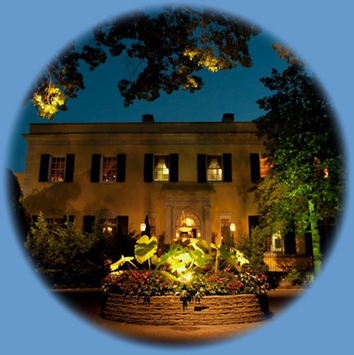
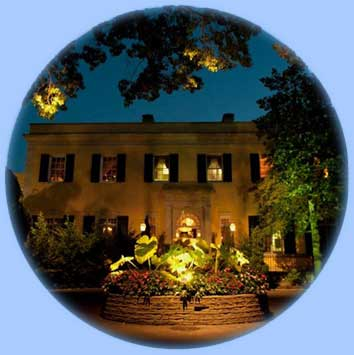
lighter blue

diff --git a/stylesheets/foundation.css b/stylesheets/foundation.css
@@ -4,7 +4,7 @@
 
 html { font-size: 62.5%; height: 100%;}
 
-body { background: #6699cc; font-family: "Helvetica", Helvetica, Arial, sans-serif; font-size: 22px; line-height: 1; color: #000066; position: relative; -webkit-font-smoothing: antialiased; height: 100%;}
+body { background: #aaccff; font-family: "Helvetica", Helvetica, Arial, sans-serif; font-size: 22px; line-height: 1; color: #000066; position: relative; -webkit-font-smoothing: antialiased; height: 100%;}
 
 /* Links ---------------------- */
 a { color: #960; text-decoration: none; line-height: inherit; }
@@ -419,9 +419,9 @@ that IE7/8 do not support :nth-child.
 .button.alert { background-color: #c60f13; border: 1px solid #7f0a0c; }
 .button.alert:hover { background-color: #970b0e; }
 .button.alert:focus { -webkit-box-shadow: 0 0 4px #c60f13, 0 1px 0 rgba(255, 255, 255, 0.5) inset; -moz-box-shadow: 0 0 4px #c60f13, 0 1px 0 rgba(255, 255, 255, 0.5) inset; box-shadow: 0 0 4px #c60f13, 0 1px 0 rgba(255, 255, 255, 0.5) inset; }
-.button.secondary { background-color: #6699cc; color: black; border: 1px solid #3973ac; }
+.button.secondary { background-color: #aaccff; color: black; border: 1px solid #3973ac; }
 .button.secondary:hover { background-color: #407fbf; }
-.button.secondary:focus { -webkit-box-shadow: 0 0 5px #6699cc, 0 1px 0 rgba(255, 255, 255, 0.5) inset; -moz-box-shadow: 0 0 5px #6699cc, 0 1px 0 rgba(255, 255, 255, 0.5) inset; box-shadow: 0 0 5px #6699cc, 0 1px 0 rgba(255, 255, 255, 0.5) inset; }
+.button.secondary:focus { -webkit-box-shadow: 0 0 5px #aaccff, 0 1px 0 rgba(255, 255, 255, 0.5) inset; -moz-box-shadow: 0 0 5px #aaccff, 0 1px 0 rgba(255, 255, 255, 0.5) inset; box-shadow: 0 0 5px #aaccff, 0 1px 0 rgba(255, 255, 255, 0.5) inset; }
 .button.radius { -webkit-border-radius: 3px; -moz-border-radius: 3px; -ms-border-radius: 3px; -o-border-radius: 3px; border-radius: 3px; }
 .button.round { -webkit-border-radius: 1000px; -moz-border-radius: 1000px; -ms-border-radius: 1000px; -o-border-radius: 1000px; border-radius: 1000px; }
 .button.full-width { width: 100%; text-align: center; padding-left: 0px !important; padding-right: 0px !important; }
@@ -432,8 +432,8 @@ that IE7/8 do not support :nth-child.
 .button.disabled.success:hover, .button[disabled].success:hover { background-color: #cc0066; }
 .button.disabled.alert, .button[disabled].alert { background-color: #c60f13; }
 .button.disabled.alert:hover, .button[disabled].alert:hover { background-color: #c60f13; }
-.button.disabled.secondary, .button[disabled].secondary { background-color: #6699cc; }
-.button.disabled.secondary:hover, .button[disabled].secondary:hover { background-color: #6699cc; }
+.button.disabled.secondary, .button[disabled].secondary { background-color: #aaccff; }
+.button.disabled.secondary:hover, .button[disabled].secondary:hover { background-color: #aaccff; }
 
 /* Don't use native buttons on iOS */
 input[type=submit].button, button.button { -webkit-appearance: none; }
@@ -469,7 +469,7 @@ input[type=submit].button, button.button { -webkit-appearance: none; }
 .button.dropdown.split:hover { background-color: #3333cc; }
 .button.dropdown.split.alert:hover { background-color: #c60f13; }
 .button.dropdown.split.success:hover { background-color: #cc0066; }
-.button.dropdown.split.secondary:hover { background-color: #6699cc; }
+.button.dropdown.split.secondary:hover { background-color: #aaccff; }
 .button.dropdown.split > a { color: white; display: block; padding: 10px 50px 11px 20px; padding-left: 20px; padding-right: 50px; -webkit-transition: background-color 0.15s ease-in-out; -moz-transition: background-color 0.15s ease-in-out; -o-transition: background-color 0.15s ease-in-out; transition: background-color 0.15s ease-in-out; }
 .button.dropdown.split > a:hover { background-color: #2929a3; }
 .button.dropdown.split.large > a { padding: 15px 75px 16px 30px; padding-left: 30px; padding-right: 75px; }
@@ -487,7 +487,7 @@ input[type=submit].button, button.button { -webkit-appearance: none; }
 .button.dropdown.split.tiny span:after { content: ""; display: block; width: 0; height: 0; border: solid 3px; border-color: white transparent transparent transparent; margin-top: -1px; margin-left: -3px; }
 .button.dropdown.split.alert > span { background-color: #c60f13; border-left-color: #7f0a0c; }
 .button.dropdown.split.success > span { background-color: #cc0066; border-left-color: #800040; }
-.button.dropdown.split.secondary > span { background-color: #6699cc; border-left-color: #3973ac; }
+.button.dropdown.split.secondary > span { background-color: #aaccff; border-left-color: #3973ac; }
 .button.dropdown.split.secondary > a { color: black; }
 .button.dropdown.split.alert > a:hover, .button.dropdown.split.alert > span:hover { background-color: #970b0e; }
 .button.dropdown.split.success > a:hover, .button.dropdown.split.success > span:hover { background-color: #99004d; }
@@ -801,7 +801,7 @@ table.show-for-xlarge, table.show-for-large, table.hide-for-small, table.hide-fo
 div.alert-box { display: block; padding: 6px 7px 7px; font-weight: bold; font-size: 14px; color: white; background-color: #3333cc; border: 1px solid rgba(0, 0, 0, 0.1); margin-bottom: 12px; -webkit-border-radius: 3px; -moz-border-radius: 3px; -ms-border-radius: 3px; -o-border-radius: 3px; border-radius: 3px; text-shadow: 0 -1px rgba(0, 0, 0, 0.3); position: relative; }
 div.alert-box.success { background-color: #cc0066; color: #fff; text-shadow: 0 -1px rgba(0, 0, 0, 0.3); }
 div.alert-box.alert { background-color: #c60f13; color: #fff; text-shadow: 0 -1px rgba(0, 0, 0, 0.3); }
-div.alert-box.secondary { background-color: #6699cc; color: black; text-shadow: 0 1px rgba(255, 255, 255, 0.3); }
+div.alert-box.secondary { background-color: #aaccff; color: black; text-shadow: 0 1px rgba(255, 255, 255, 0.3); }
 div.alert-box a.close { color: #333; position: absolute; right: 4px; top: -1px; font-size: 17px; opacity: 0.2; padding: 4px; }
 div.alert-box a.close:hover, div.alert-box a.close:focus { opacity: 0.4; }
 
@@ -811,7 +811,7 @@ div.alert-box a.close:hover, div.alert-box a.close:focus { opacity: 0.4; }
 .label.round { padding: 1px 7px 2px; -webkit-border-radius: 1000px; -moz-border-radius: 1000px; -ms-border-radius: 1000px; -o-border-radius: 1000px; border-radius: 1000px; }
 .label.alert { background-color: #c60f13; }
 .label.success { background-color: #cc0066; }
-.label.secondary { background-color: #6699cc; color: black; }
+.label.secondary { background-color: #aaccff; color: black; }
 
 /* Tooltips ---------------------- */
 .has-tip { border-bottom: dotted 1px #cccccc; cursor: help; font-weight: bold; color: #333333; }
@@ -843,16 +843,16 @@ div.alert-box a.close:hover, div.alert-box a.close:focus { opacity: 0.4; }
 .panel.radius { -webkit-border-radius: 3px; -moz-border-radius: 3px; -ms-border-radius: 3px; -o-border-radius: 3px; border-radius: 3px; }
 
 /* Accordion ---------------------- */
-ul.accordion { margin: 0 0 22px 0; border-bottom: 1px solid #6699cc; }
-ul.accordion > li { list-style: none; margin: 0; padding: 0; border-top: 1px solid #6699cc; }
-ul.accordion > li .title { cursor: pointer; background: #79a6d2; padding: 15px; margin: 0; position: relative; border-left: 1px solid #6699cc; border-right: 1px solid #6699cc; -webkit-transition: 0.15s background linear; -moz-transition: 0.15s background linear; -o-transition: 0.15s background linear; transition: 0.15s background linear; }
+ul.accordion { margin: 0 0 22px 0; border-bottom: 1px solid #aaccff; }
+ul.accordion > li { list-style: none; margin: 0; padding: 0; border-top: 1px solid #aaccff; }
+ul.accordion > li .title { cursor: pointer; background: #79a6d2; padding: 15px; margin: 0; position: relative; border-left: 1px solid #aaccff; border-right: 1px solid #aaccff; -webkit-transition: 0.15s background linear; -moz-transition: 0.15s background linear; -o-transition: 0.15s background linear; transition: 0.15s background linear; }
 ul.accordion > li .title h1, ul.accordion > li .title h2, ul.accordion > li .title h3, ul.accordion > li .title h4, ul.accordion > li .title h5 { margin: 0; }
 ul.accordion > li .title:after { content: ""; display: block; width: 0; height: 0; border: solid 6px; border-color: transparent #264c73 transparent transparent; position: absolute; right: 15px; top: 21px; }
 ul.accordion > li .content { display: none; padding: 15px; }
 ul.accordion > li.active { border-top: 3px solid #3333cc; }
 ul.accordion > li.active .title { background: white; padding-top: 13px; }
 ul.accordion > li.active .title:after { content: ""; display: block; width: 0; height: 0; border: solid 6px; border-color: #264c73 transparent transparent transparent; }
-ul.accordion > li.active .content { background: white; display: block; border-left: 1px solid #6699cc; border-right: 1px solid #6699cc; }
+ul.accordion > li.active .content { background: white; display: block; border-left: 1px solid #aaccff; border-right: 1px solid #aaccff; }
 
 /* Side Nav ---------------------- */
 ul.side-nav { display: block; list-style: none; margin: 0; padding: 17px 0; }
@@ -879,7 +879,7 @@ ul.pagination li.current a { background: #3333cc; color: white; font-weight: bol
 ul.pagination li.current a:hover { background: #3333cc; }
 
 /* Breadcrums ---------------------- */
-ul.breadcrumbs { display: block; background: #79a6d2; padding: 6px 10px 7px; border: 1px solid #6699cc; -webkit-border-radius: 2px; -moz-border-radius: 2px; -ms-border-radius: 2px; -o-border-radius: 2px; border-radius: 2px; overflow: hidden; }
+ul.breadcrumbs { display: block; background: #79a6d2; padding: 6px 10px 7px; border: 1px solid #aaccff; -webkit-border-radius: 2px; -moz-border-radius: 2px; -ms-border-radius: 2px; -o-border-radius: 2px; border-radius: 2px; overflow: hidden; }
 ul.breadcrumbs li { margin: 0; padding: 0 12px 0 0; float: left; list-style: none; }
 ul.breadcrumbs li a, ul.breadcrumbs li span { text-transform: uppercase; font-size: 11px; font-size: 1.1rem; padding-left: 12px; }
 ul.breadcrumbs li:first-child a, ul.breadcrumbs li:first-child span { padding-left: 0; }
@@ -941,7 +941,7 @@ p.vevent abbr { cursor: default; text-decoration: none; font-weight: bold; borde
 /* Progress Bar ---------------------- */
 div.progress { padding: 2px; margin-bottom: 10px; border: 1px solid #cccccc; height: 25px; /* meter */ /* border radii */ }
 div.progress .meter { background: #3333cc; height: 100%; display: block; width: 50%; }
-div.progress.secondary .meter { background: #6699cc; }
+div.progress.secondary .meter { background: #aaccff; }
 div.progress.success .meter { background: #cc0066; }
 div.progress.alert .meter { background: #c60f13; }
 div.progress.radius { -webkit-border-radius: 3px; -moz-border-radius: 3px; -ms-border-radius: 3px; -o-border-radius: 3px; border-radius: 3px; }

diff --git a/_posts/2012-12-21-Our-Story.html b/_posts/2012-12-21-Our-Story.html
@@ -99,8 +99,8 @@ permalink: /Our-Story
 			</div>
 			<div class="six columns">
 				<img src="/images/sun.png" style="margin-top: 15px;margin-left: 60px;" title="The Setting Sun" alt="The Setting Sun"/><br />
-				<img src="/images/sea2.gif" style="margin-top: 30px; margin-left: 45px;" title="The Rolling Sea" alt="The Rolling Sea" /><br />
-				<img src="/images/sea2.gif" style="margin-left: 15px;" title="The Rolling Sea" alt="The Rolling Sea" />
+				<img src="/images/sea.gif" style="margin-top: 30px; margin-left: 45px;" title="The Rolling Sea" alt="The Rolling Sea" /><br />
+				<img src="/images/sea.gif" style="margin-left: 15px;" title="The Rolling Sea" alt="The Rolling Sea" />
 			</div>
 		</div>
 		<div class="row">

diff --git a/stylesheets/app.css b/stylesheets/app.css
@@ -147,7 +147,7 @@ form.custom div.custom.dropdown ul li { padding-top: 5px; padding-bottom: 5px; }
 	font-size: 106px; 
 	width: 465px;
 	font-weight: bold;
-	background: #69C;
+	background: #acf;
 	z-index: 2;
 }
 #our-story-text .ldn {
@@ -156,7 +156,7 @@ form.custom div.custom.dropdown ul li { padding-top: 5px; padding-bottom: 5px; }
 	font-size: 141px;
 	width: 465px;
 	font-weight: bold;
-	background: #69C;
+	background: #acf;
 }
 .ie6 .ny, .ie7 .ny, .ie8 .ny, .ie9 .ny {
 	margin-left: -50px !important;

diff --git a/_includes/header.html b/_includes/header.html
@@ -37,7 +37,7 @@
 				</p>
 			</div>
 			<div class="four columns nav-center text-center">
-				<a href="/" class="home-link"><img src="images/dandc.png" alt="home"/></a>
+				<a href="/" class="home-link"><img src="/images/dandc.png" alt="home"/></a>
 			</div>
 			<div class="four columns text-center nav-right">
 				<p>
